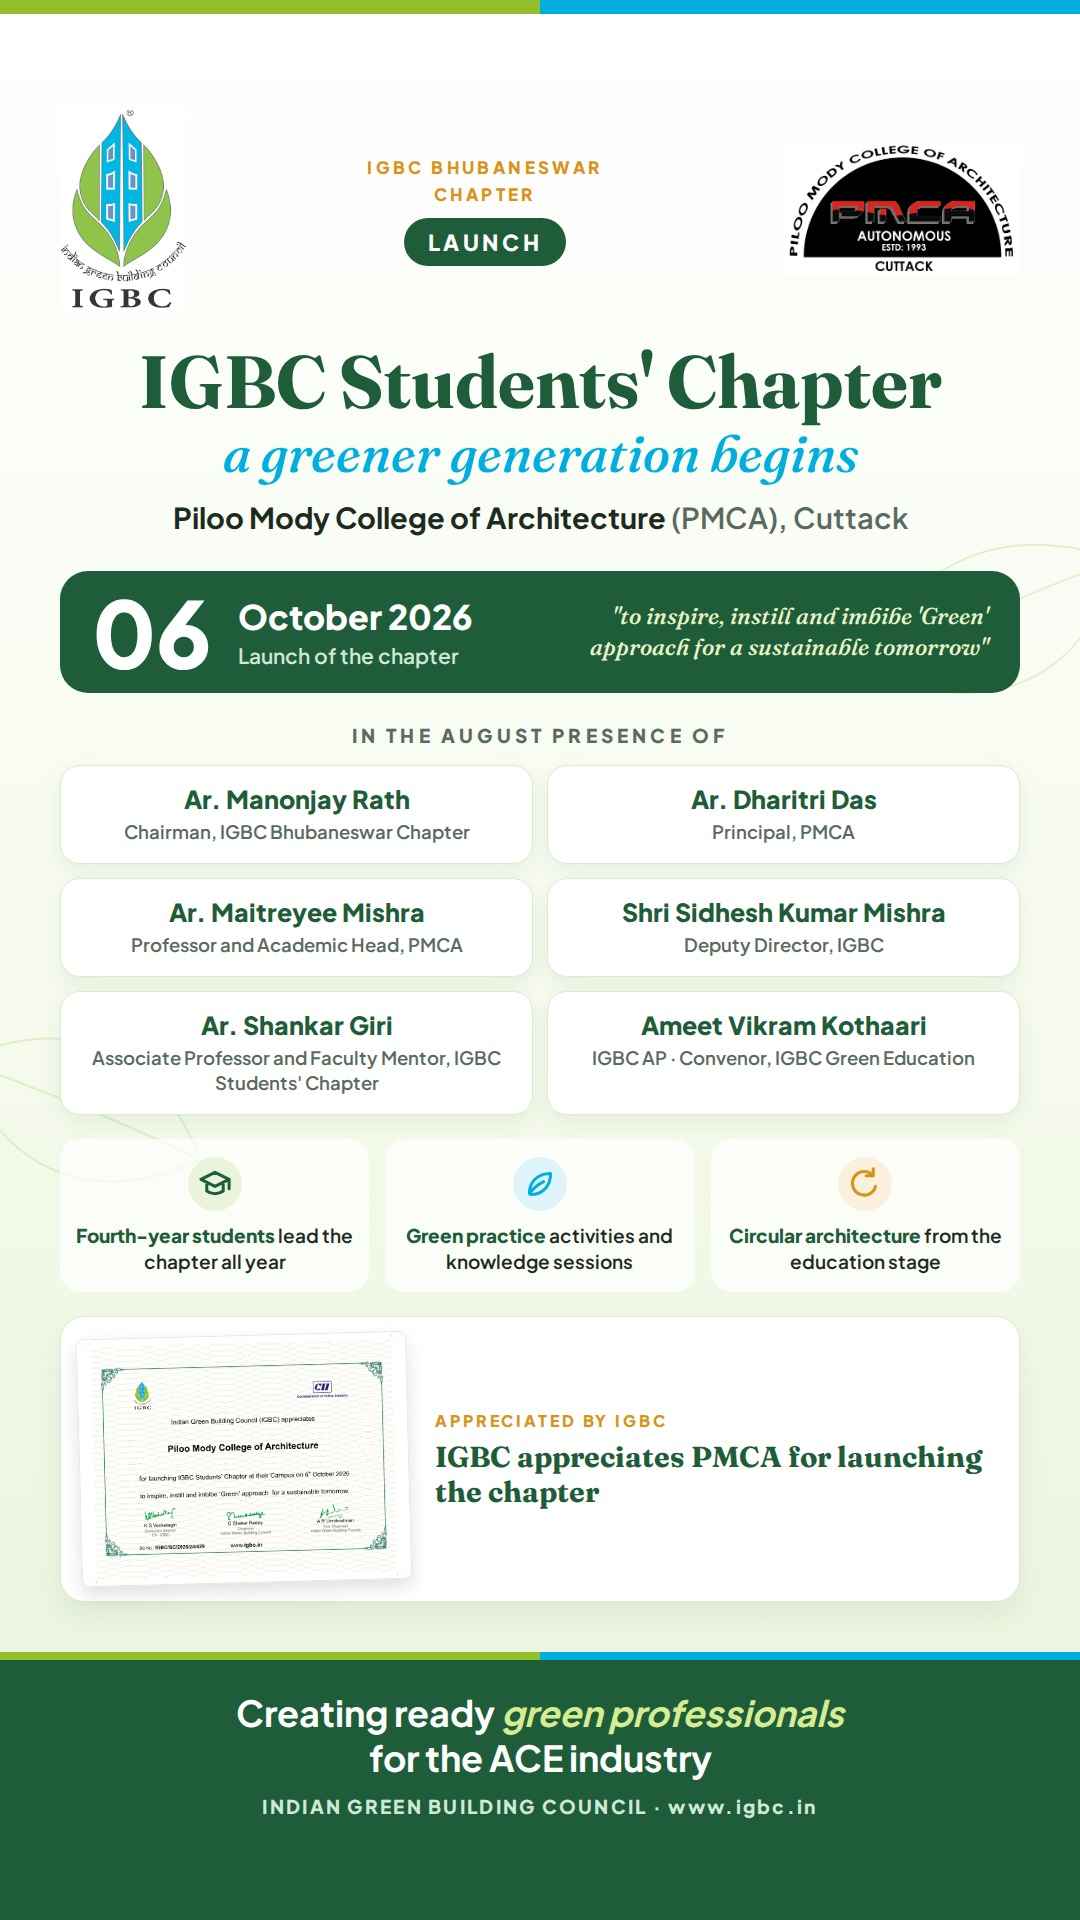
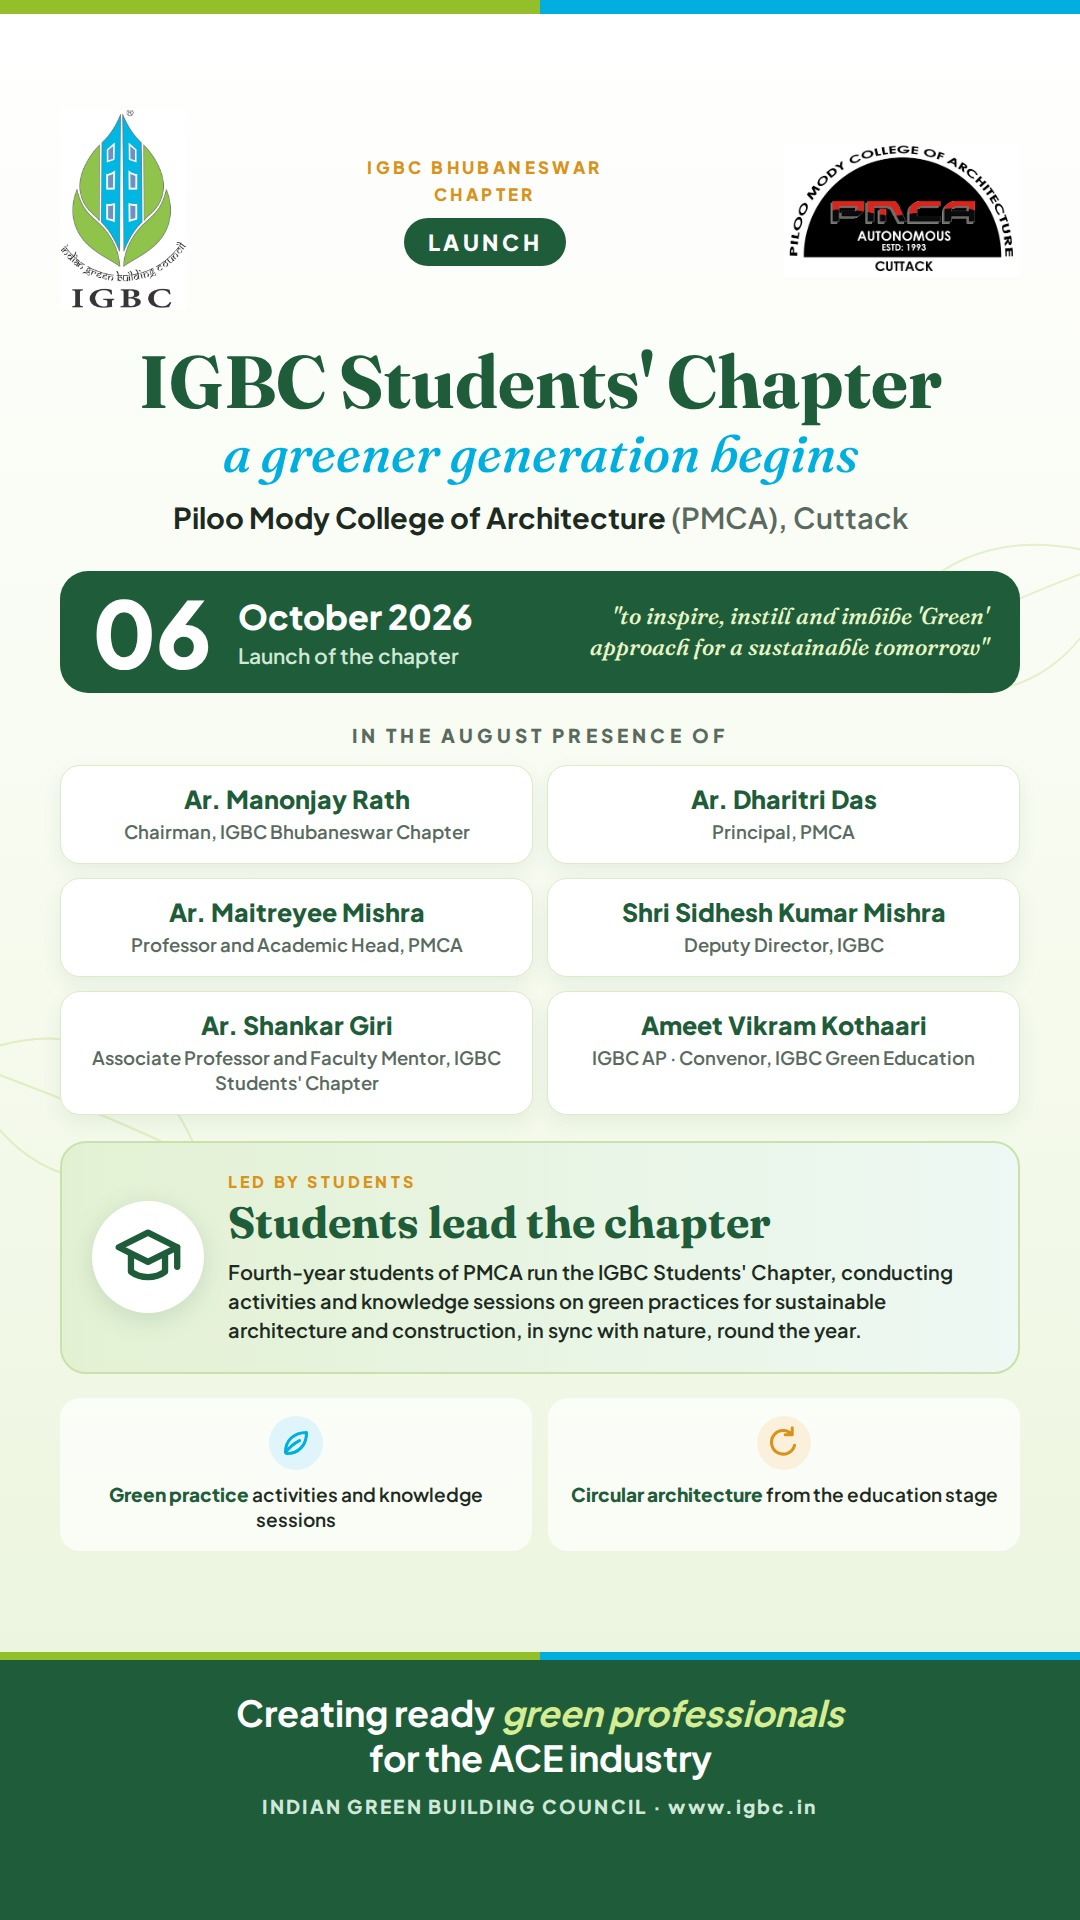
PMCA chapter graphics: replace certificate with a 'students lead the chapter' band
Claude-Session: https://claude.ai/code/session_01Y54S9FSaisg7xEdb5ssYub

Changed region(s): [[0.0306, 0.5938, 0.9472, 0.8438]]

diff --git a/igbc/pmca-students-chapter/students-chapter-launch.html b/igbc/pmca-students-chapter/students-chapter-launch.html
@@ -9,7 +9,7 @@
   .display { font-family: "Fraunces", Georgia, serif; }
   svg.bg { position: absolute; inset: 0; }
 
-  header { position: relative; display: flex; align-items: center; gap: 24px; padding: 56px 60px 0; }
+  header { position: relative; display: flex; align-items: center; gap: 24px; padding: 72px 60px 0; }
   .logo { flex: none; width: 107px; height: 170px; position: relative; overflow: hidden; }
   .logo img { position: absolute; width: 268px; left: -80px; top: -11px; }
   .head { flex: 1; }
@@ -21,31 +21,30 @@
   .head p { margin-top: 10px; font-size: 20px; white-space: nowrap; font-weight: 700; color: var(--ink); }
   .head p span { color: var(--muted); font-weight: 600; }
 
-  .date { position: relative; margin: 42px 60px 0; display: flex; align-items: center; gap: 20px; background: var(--green); color: #fff; border-radius: 22px; padding: 18px 28px; }
+  .date { position: relative; margin: 54px 60px 0; display: flex; align-items: center; gap: 20px; background: var(--green); color: #fff; border-radius: 22px; padding: 18px 28px; }
   .date b { font-size: 46px; font-weight: 800; line-height: 1; }
   .date div { font-size: 18px; font-weight: 600; color: #cfe8d7; line-height: 1.35; }
   .date div strong { display: block; color: #fff; font-size: 22px; font-weight: 800; }
   .date .quote { margin-left: auto; font-family: "Fraunces", Georgia, serif; font-style: italic; font-size: 20px; color: #e8f5c8; text-align: right; max-width: 430px; line-height: 1.35; }
 
   section { position: relative; padding: 0 60px; }
-  h2 { margin-top: 40px; font-size: 16px; font-weight: 800; letter-spacing: .2em; color: var(--muted); text-align: center; }
+  h2 { margin-top: 52px; font-size: 16px; font-weight: 800; letter-spacing: .2em; color: var(--muted); text-align: center; }
   .people { margin-top: 16px; display: grid; grid-template-columns: repeat(6, 1fr); gap: 14px; }
-  .p { grid-column: span 2; background: #fff; border: 1.5px solid #dcebc9; border-radius: 18px; padding: 16px 16px 15px; text-align: center; box-shadow: 0 8px 20px rgba(31, 92, 58, .07); }
+  .p { grid-column: span 2; background: #fff; border: 1.5px solid #dcebc9; border-radius: 18px; padding: 22px 16px 21px; text-align: center; box-shadow: 0 8px 20px rgba(31, 92, 58, .07); }
   .p b { display: block; font-size: 20px; font-weight: 800; color: var(--green); line-height: 1.25; }
   .p span { display: block; margin-top: 5px; font-size: 15.5px; font-weight: 600; color: var(--muted); line-height: 1.35; }
 
-  .what { margin-top: 34px; display: grid; grid-template-columns: repeat(3, 1fr); gap: 14px; }
-  .w { display: flex; gap: 12px; align-items: flex-start; }
+  .what { margin-top: 40px; display: grid; grid-template-columns: repeat(2, 1fr); gap: 14px; }
+  .w { display: flex; gap: 14px; align-items: center; background: #fff; border: 1.5px solid #dcebc9; border-radius: 20px; padding: 20px 22px; box-shadow: 0 8px 20px rgba(31, 92, 58, .06); }
   .w svg { flex: none; width: 46px; height: 46px; }
-  .w p { font-size: 17px; line-height: 1.38; font-weight: 600; }
+  .w p { font-size: 18.5px; line-height: 1.38; font-weight: 600; }
   .w p b { color: var(--green); font-weight: 800; }
 
-  .cert { margin-top: 42px; display: flex; gap: 34px; align-items: center; background: #fff; border: 1.5px solid #dcebc9; border-radius: 24px; padding: 22px 30px 22px 22px; box-shadow: 0 12px 28px rgba(31, 92, 58, .08); }
-  .cert img { flex: none; width: 430px; border-radius: 10px; border: 1px solid #e3eadb; box-shadow: 0 10px 22px rgba(0, 0, 0, .12); transform: rotate(-1.5deg); }
-  .cert small { font-size: 15px; font-weight: 800; letter-spacing: .18em; color: var(--gold); }
-  .cert h4 { margin-top: 8px; font-size: 25px; line-height: 1.25; font-weight: 700; color: var(--green); }
-  .cert p { margin-top: 10px; font-size: 17px; line-height: 1.45; font-weight: 600; color: var(--muted); }
-  .cert p b { color: var(--ink); }
+  .lead { margin-top: 50px; display: flex; gap: 28px; align-items: center; background: linear-gradient(90deg, #e3f1d3, #eef8f4); border: 2px solid #c9e2ad; border-radius: 26px; padding: 42px 40px; }
+  .lead svg { flex: none; width: 110px; height: 110px; filter: drop-shadow(0 6px 12px rgba(31, 92, 58, .15)); }
+  .lead small { font-size: 15px; font-weight: 800; letter-spacing: .2em; color: var(--gold); }
+  .lead h4 { margin-top: 6px; font-size: 46px; line-height: 1.1; font-weight: 700; color: var(--green); }
+  .lead p { margin-top: 10px; font-size: 19px; line-height: 1.5; font-weight: 600; color: var(--ink); }
   footer { position: absolute; left: 0; right: 0; bottom: 0; height: 132px; background: var(--green); color: #fff; padding: 0 60px; display: flex; align-items: center; justify-content: space-between; }
   footer::before { content: ""; position: absolute; left: 0; right: 0; top: 0; height: 7px; background: linear-gradient(90deg, var(--leaf) 0 50%, var(--sky) 50%); }
   footer h3 { font-size: 27px; font-weight: 700; line-height: 1.3; }
@@ -90,19 +89,16 @@
     <div class="p"><b>Ameet Vikram Kothaari</b><span>IGBC AP · Convenor,<br>IGBC Green Education</span></div>
   </div>
 
+  <div class="lead">
+    <svg viewBox="0 0 46 46"><circle cx="23" cy="23" r="23" fill="#fff"/><path d="M11 19l12-6 12 6-12 6zM16 22v7c4 3 10 3 14 0v-7M35 19v8" fill="none" stroke="#1f5c3a" stroke-width="2.6" stroke-linecap="round" stroke-linejoin="round"/></svg>
+    <div><small>LED BY STUDENTS</small><h4 class="display">Students lead the chapter</h4>
+      <p>Fourth-year students of PMCA run the IGBC Students' Chapter, conducting activities and knowledge sessions on green practices for sustainable architecture and construction, in sync with nature, round the year.</p></div>
+  </div>
   <div class="what">
-    <div class="w"><svg viewBox="0 0 46 46"><circle cx="23" cy="23" r="23" fill="#eaf4dc"/><path d="M11 19l12-6 12 6-12 6zM16 22v7c4 3 10 3 14 0v-7M35 19v8" fill="none" stroke="#1f5c3a" stroke-width="2.6" stroke-linecap="round" stroke-linejoin="round"/></svg>
-      <p><b>Fourth-year students</b> form the chapter and lead it through the year</p></div>
     <div class="w"><svg viewBox="0 0 46 46"><circle cx="23" cy="23" r="23" fill="#e0f4fb"/><path d="M14 31c0-10 7-17 18-17 0 11-7 18-17 18M14 31c4-5 8-8 12-10" fill="none" stroke="#00aedf" stroke-width="2.6" stroke-linecap="round" stroke-linejoin="round"/></svg>
       <p><b>Activities and knowledge sessions</b> on green practices, in sync with nature</p></div>
     <div class="w"><svg viewBox="0 0 46 46"><circle cx="23" cy="23" r="23" fill="#fbf0dc"/><path d="M30 16a10 10 0 1 0 2 9M30 10v6h-6" fill="none" stroke="#d9921a" stroke-width="2.6" stroke-linecap="round" stroke-linejoin="round"/></svg>
       <p><b>Sustainable and circular architecture</b> embedded at the education stage</p></div>
-  </div>
-  <div class="cert">
-    <img src="igbc-appreciation-certificate.png" alt="IGBC appreciation certificate for Piloo Mody College of Architecture">
-    <div><small>APPRECIATED BY IGBC</small>
-      <h4 class="display">Indian Green Building Council appreciates PMCA for launching the chapter</h4>
-      <p>Certificate signed by the Executive Director, CII-IGBC, and the Chairman and Vice Chairman, IGBC.<br><b>SC No. IGBC/SC/2026/24/429</b></p></div>
   </div>
 </section>
 

diff --git a/igbc/pmca-students-chapter/whatsapp-status.html b/igbc/pmca-students-chapter/whatsapp-status.html
@@ -40,17 +40,18 @@
   .p b { display: block; font-size: 25px; font-weight: 800; color: var(--green); line-height: 1.2; }
   .p span { display: block; margin-top: 6px; font-size: 18.5px; font-weight: 600; color: var(--muted); line-height: 1.35; }
 
-  .what { margin-top: 24px; display: grid; grid-template-columns: repeat(3, 1fr); gap: 16px; }
+  .what { margin-top: 24px; display: grid; grid-template-columns: repeat(2, 1fr); gap: 16px; }
   .w { background: rgba(255, 255, 255, .7); border-radius: 20px; padding: 18px 16px; text-align: center; }
   .w svg { width: 54px; height: 54px; }
   .w p { margin-top: 8px; font-size: 19px; line-height: 1.35; font-weight: 600; }
   .w p b { color: var(--green); font-weight: 800; }
 
-  .cert { margin-top: 24px; display: flex; gap: 26px; align-items: center; background: #fff; border: 1.5px solid #dcebc9; border-radius: 24px; padding: 18px 26px 18px 18px; box-shadow: 0 12px 28px rgba(31, 92, 58, .08); }
-  .cert img { flex: none; width: 330px; border-radius: 8px; border: 1px solid #e3eadb; box-shadow: 0 8px 18px rgba(0, 0, 0, .12); transform: rotate(-1.5deg); }
-  .cert small { font-size: 16px; font-weight: 800; letter-spacing: .18em; color: var(--gold); }
-  .cert h4 { margin-top: 8px; font-size: 29px; line-height: 1.22; font-weight: 700; color: var(--green); }
 
+  .lead { margin-top: 26px; display: flex; gap: 24px; align-items: center; background: linear-gradient(90deg, #e3f1d3, #eef8f4); border: 2px solid #c9e2ad; border-radius: 26px; padding: 28px 30px; }
+  .lead svg { flex: none; width: 112px; height: 112px; filter: drop-shadow(0 6px 12px rgba(31, 92, 58, .15)); }
+  .lead small { font-size: 16px; font-weight: 800; letter-spacing: .2em; color: var(--gold); }
+  .lead h4 { margin-top: 6px; font-size: 44px; line-height: 1.1; font-weight: 700; color: var(--green); }
+  .lead p { margin-top: 10px; font-size: 20px; line-height: 1.45; font-weight: 600; color: var(--ink); }
   footer { position: absolute; left: 0; right: 0; bottom: 0; height: 268px; background: var(--green); color: #fff; text-align: center; padding-top: 38px; }
   footer::before { content: ""; position: absolute; left: 0; right: 0; top: 0; height: 8px; background: linear-gradient(90deg, var(--leaf) 0 50%, var(--sky) 50%); }
   footer h3 { font-size: 36px; font-weight: 700; line-height: 1.25; }
@@ -94,19 +95,18 @@
     <div class="p"><b>Ameet Vikram Kothaari</b><span>IGBC AP · Convenor, IGBC Green Education</span></div>
   </div>
 
+  <div class="lead">
+    <svg viewBox="0 0 46 46"><circle cx="23" cy="23" r="23" fill="#fff"/><path d="M11 19l12-6 12 6-12 6zM16 22v7c4 3 10 3 14 0v-7M35 19v8" fill="none" stroke="#1f5c3a" stroke-width="2.6" stroke-linecap="round" stroke-linejoin="round"/></svg>
+    <div><small>LED BY STUDENTS</small><h4 class="display">Students lead the chapter</h4>
+      <p>Fourth-year students of PMCA run the IGBC Students' Chapter, conducting activities and knowledge sessions on green practices for sustainable architecture and construction, in sync with nature, round the year.</p></div>
+  </div>
   <div class="what">
-    <div class="w"><svg viewBox="0 0 46 46"><circle cx="23" cy="23" r="23" fill="#eaf4dc"/><path d="M11 19l12-6 12 6-12 6zM16 22v7c4 3 10 3 14 0v-7M35 19v8" fill="none" stroke="#1f5c3a" stroke-width="2.6" stroke-linecap="round" stroke-linejoin="round"/></svg>
-      <p><b>Fourth-year students</b> lead the chapter all year</p></div>
     <div class="w"><svg viewBox="0 0 46 46"><circle cx="23" cy="23" r="23" fill="#e0f4fb"/><path d="M14 31c0-10 7-17 18-17 0 11-7 18-17 18M14 31c4-5 8-8 12-10" fill="none" stroke="#00aedf" stroke-width="2.6" stroke-linecap="round" stroke-linejoin="round"/></svg>
       <p><b>Green practice</b> activities and knowledge sessions</p></div>
     <div class="w"><svg viewBox="0 0 46 46"><circle cx="23" cy="23" r="23" fill="#fbf0dc"/><path d="M30 16a10 10 0 1 0 2 9M30 10v6h-6" fill="none" stroke="#d9921a" stroke-width="2.6" stroke-linecap="round" stroke-linejoin="round"/></svg>
       <p><b>Circular architecture</b> from the education stage</p></div>
   </div>
 
-  <div class="cert">
-    <img src="igbc-appreciation-certificate.png" alt="IGBC appreciation certificate for Piloo Mody College of Architecture">
-    <div><small>APPRECIATED BY IGBC</small><h4 class="display">IGBC appreciates PMCA for launching the chapter</h4></div>
-  </div>
 </div>
 
 <footer>

diff --git a/igbc/pmca-students-chapter/linkedin-post.md b/igbc/pmca-students-chapter/linkedin-post.md
@@ -30,7 +30,6 @@ Congratulations to the PMCA leadership, faculty and students. We look forward to
 - `students-chapter-launch.png` – 2160 × 2700 px (4:5) image to attach to the post
 - `students-chapter-launch.html` – editable source; re-render with Playwright at a 1080 × 1350 viewport and `deviceScaleFactor: 2`
 - `pmca-logo.jpg` – PMCA logo used in the graphic
-- `igbc-appreciation-certificate.png` – page 1 of the IGBC certificate (PMCA.pdf), used in the graphic
 
 ## WhatsApp Status
 
